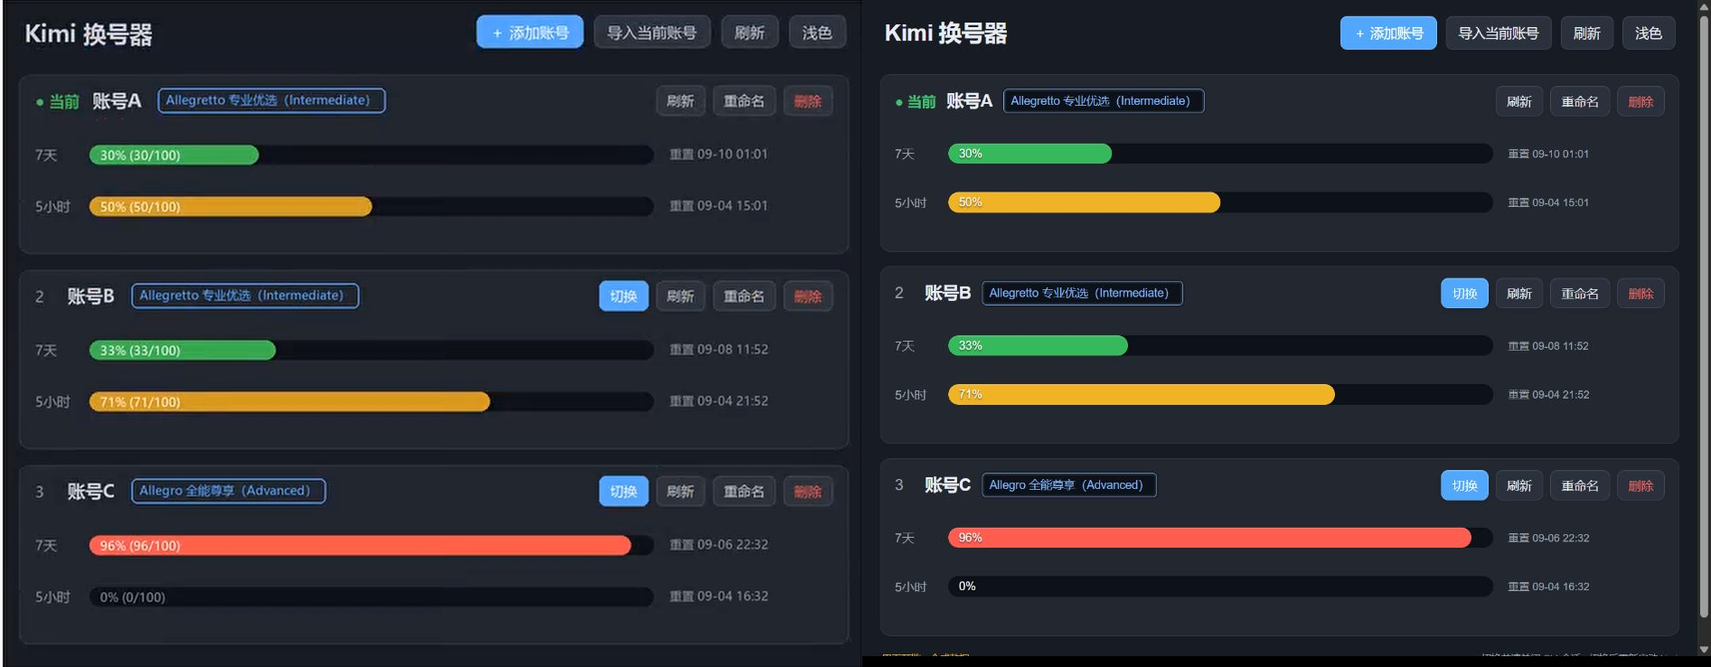
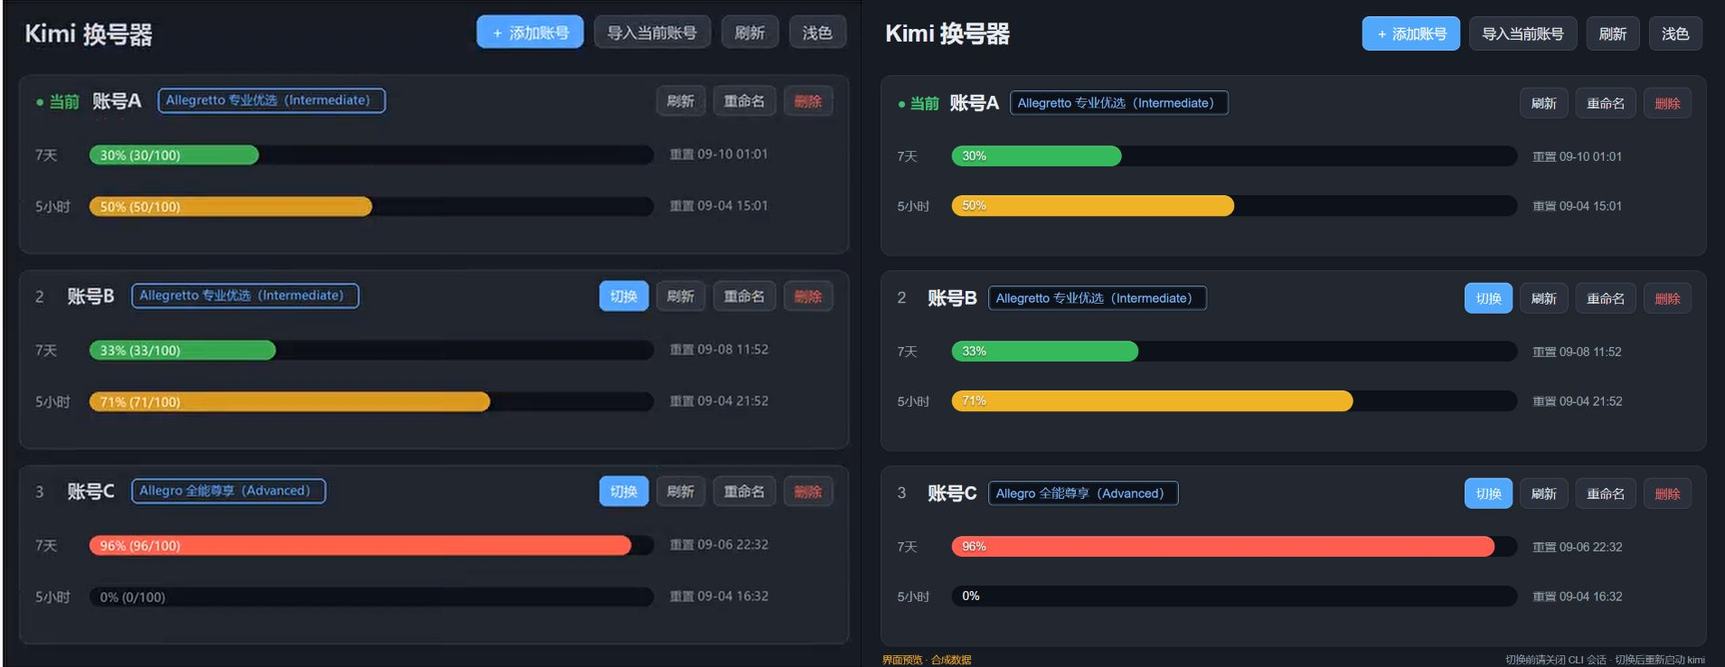
fix: preserve external CLI changes during recovery and report refresh failures

diff --git a/src/styles.css b/src/styles.css
@@ -1,7 +1,8 @@
-:root{font-family:Arial,"Microsoft YaHei UI","Microsoft YaHei",sans-serif;color:#e9edf3;background:#171b23;font-synthesis:none;font-weight:400;color-scheme:dark;--bg:#171b23;--card:#222730;--border:#333b47;--text:#e9edf3;--muted:#9ba3af;--button:#2b313c;--button-border:#414957;--track:#0d1119;--blue:#51a7fc;--green:#36b95c;--yellow:#f0b326;--red:#ff5d50;--dialog:#222832}
+:root{font-family:Arial,"Microsoft YaHei UI","Microsoft YaHei",sans-serif;color:#e9edf3;background:var(--bg);font-synthesis:none;font-weight:400;color-scheme:dark;--bg:#171b23;--card:#222730;--border:#333b47;--text:#e9edf3;--muted:#9ba3af;--button:#2b313c;--button-border:#414957;--track:#0d1119;--blue:#51a7fc;--green:#36b95c;--yellow:#f0b326;--red:#ff5d50;--dialog:#222832}
 :root[data-theme=light]{color-scheme:light;--bg:#f1f3f7;--card:#fff;--border:#d9dfe8;--text:#242c3a;--muted:#667184;--button:#eef1f6;--button-border:#d2d9e4;--track:#e6ebf2;--blue:#2588e9;--green:#29a650;--yellow:#d99a0d;--red:#ef584d;--dialog:#fff}
-*{box-sizing:border-box}body{margin:0;background:var(--bg);color:var(--text);min-width:360px}button,input,select{font:inherit}button{cursor:pointer;border:1px solid var(--button-border);background:var(--button);color:var(--text);border-radius:8px;min-height:36px;padding:7px 13px;font-size:14px;font-weight:500;box-shadow:inset 0 1px 0 #ffffff09,0 2px 5px #00000010;transition:background .15s,border-color .15s}button:hover:not(:disabled){filter:brightness(1.12);border-color:#75839a}button:focus-visible,input:focus-visible,select:focus-visible,a:focus-visible{outline:2px solid var(--blue);outline-offset:3px}button:disabled{opacity:.48;cursor:wait}button.primary{background:var(--blue);color:white;border-color:#7bbcff;box-shadow:inset 0 1px 0 #ffffff2b,0 2px 7px #0002}button.danger{color:#ef6b65}button.danger:hover:not(:disabled){background:#713b3a}#app{padding:17px 20px 0;max-width:1400px;margin:auto}.toolbar{display:flex;align-items:center;justify-content:space-between;gap:20px;min-height:40px;margin:0 0 26px;padding:0 5px}.toolbar h1{font-size:26px;line-height:40px;margin:0;font-weight:700;letter-spacing:-.5px;white-space:nowrap}.toolbar-actions{display:flex;align-items:center;gap:10px}.toolbar-actions button{height:38px;font-size:15px;padding:7px 14px}.accounts{display:flex;flex-direction:column;gap:16px}.account-card{background:var(--card);border:1px solid var(--border);border-radius:12px;min-height:200px;padding:11px 16px 24px 18px;box-shadow:inset 0 1px 0 #ffffff03,0 3px 10px #00000010}.account-header{display:flex;align-items:center;justify-content:space-between;gap:12px;min-height:38px}.account-identity{display:flex;align-items:center;gap:12px;min-width:0;flex-wrap:wrap}.account-identity h2{font-size:20px;line-height:30px;margin:0;font-weight:600;max-width:240px;white-space:nowrap;overflow:hidden;text-overflow:ellipsis}.current-marker{font-size:16px;color:#43be72;font-weight:600;white-space:nowrap}.account-number{font-size:17px;color:var(--muted);width:22px}.plan-tag{display:inline-flex;border:1px solid #71a4de;border-radius:5px;box-shadow:inset 0 0 0 2px var(--card),0 0 0 2px #0c101855;padding:4px 8px;color:#83b8f3;background:var(--track);font-size:14px;line-height:18px;max-width:310px;white-space:nowrap;overflow:hidden;text-overflow:ellipsis}.account-actions{display:flex;gap:8px;flex-shrink:0}.account-actions button{padding:6px 12px;min-height:34px}.quota-list{display:flex;flex-direction:column;gap:31px;margin-top:28px}.quota-row{display:grid;grid-template-columns:48px minmax(120px,1fr) 181px;align-items:center;gap:12px;min-height:24px}.quota-label{font-size:14px;color:var(--muted)}.quota-track{position:relative;height:23px;background:var(--track);border-radius:20px;overflow:hidden;box-shadow:inset 0 1px 3px #0003}.quota-fill{height:100%;border-radius:20px;box-shadow:inset 0 1px 1px #ffffff35,0 0 4px #0004;min-width:0}.quota-fill.weekly{background:var(--green)}.quota-fill.hourly{background:var(--yellow)}.quota-fill.critical{background:var(--red)}.quota-value{position:absolute;inset:0;display:flex;align-items:center;padding-left:12px;font-size:13px;color:#f7fafc;text-shadow:0 1px 2px #0009}.quota-value.unavailable{color:var(--muted);text-shadow:none}.quota-reset{color:var(--muted);font-size:13px;white-space:nowrap;padding-left:5px}.account-error{font-size:12px;line-height:1.5;color:#ed9b92;margin:14px 0 -7px}.notice{border:1px solid var(--border);background:var(--card);border-radius:8px;padding:11px 14px;margin:0 0 16px;color:var(--muted);font-size:13px;line-height:1.6}.notice.error{border-color:#a95d53;color:#ef9b91}.notice.success{border-color:#347857;color:#64ca8b}.empty-state{text-align:center;background:var(--card);border:1px dashed var(--border);border-radius:12px;padding:88px 24px}.empty-state h2{font-size:22px;margin:0 0 14px}.empty-state p{font-size:14px;color:var(--muted);line-height:1.8;margin:0 0 24px}.empty-actions{display:flex;justify-content:center;gap:12px}.app-footer{font-size:11px;color:var(--muted);display:flex;justify-content:space-between;gap:12px;margin:8px 2px 0;line-height:14px;flex-wrap:wrap}.app-dialog{width:440px;max-width:calc(100% - 36px);border:1px solid var(--border);border-radius:14px;background:var(--dialog);color:var(--text);padding:26px;box-shadow:0 24px 100px #0008}.app-dialog::backdrop{background:#080d16b8}.app-dialog h2{font-size:21px;margin:0 0 12px}.app-dialog p{font-size:13px;color:var(--muted);line-height:1.8;margin:0 0 22px}.app-dialog label{display:block;font-size:13px;margin:16px 0}.app-dialog input,.app-dialog select{display:block;margin-top:9px;width:100%;border:1px solid var(--button-border);border-radius:7px;padding:11px 12px;background:var(--track);color:var(--text)}.dialog-actions{display:flex;justify-content:flex-end;gap:10px;margin-top:25px}.login-panel{background:var(--card);border:1px solid var(--blue);border-radius:10px;padding:20px;margin-bottom:16px;line-height:1.7}.login-panel h2{font-size:17px;margin:0 0 9px}.login-panel p{font-size:13px;color:var(--muted);margin:0 0 13px}.login-url{display:block;overflow-wrap:anywhere;color:#77b8fb;font-size:13px;user-select:text;margin:10px 0 16px}.preview-badge{color:var(--yellow)}
+*{box-sizing:border-box}body{margin:0;background:var(--bg);color:var(--text);min-width:360px;min-height:100vh}button,input,select{font:inherit}button{cursor:pointer;border:1px solid var(--button-border);background:var(--button);color:var(--text);border-radius:8px;min-height:36px;padding:7px 13px;font-size:14px;font-weight:500;box-shadow:inset 0 1px 0 #ffffff09,0 2px 5px #00000010;transition:background .15s,border-color .15s}button:hover:not(:disabled){filter:brightness(1.12);border-color:#75839a}button:focus-visible,input:focus-visible,select:focus-visible,a:focus-visible{outline:2px solid var(--blue);outline-offset:3px}button:disabled{opacity:.48;cursor:wait}button.primary{background:var(--blue);color:white;border-color:#7bbcff;box-shadow:inset 0 1px 0 #ffffff2b,0 2px 7px #0002}button.danger{color:#ef6b65}button.danger:hover:not(:disabled){background:#713b3a}#app{padding:17px 20px 0;max-width:1400px;margin:auto}.toolbar{display:flex;align-items:center;justify-content:space-between;gap:20px;min-height:40px;margin:0 0 26px;padding:0 5px}.toolbar h1{font-size:26px;line-height:40px;margin:0;font-weight:700;letter-spacing:-.5px;white-space:nowrap}.toolbar-actions{display:flex;align-items:center;gap:10px}.toolbar-actions button{height:38px;font-size:15px;padding:7px 14px}.accounts{display:flex;flex-direction:column;gap:16px}.account-card{background:var(--card);border:1px solid var(--border);border-radius:12px;min-height:200px;padding:11px 16px 24px 18px;box-shadow:inset 0 1px 0 #ffffff03,0 3px 10px #00000010}.account-header{display:flex;align-items:center;justify-content:space-between;gap:12px;min-height:38px}.account-identity{display:flex;align-items:center;gap:12px;min-width:0;flex-wrap:wrap}.account-identity h2{font-size:20px;line-height:30px;margin:0;font-weight:600;max-width:240px;white-space:nowrap;overflow:hidden;text-overflow:ellipsis}.current-marker{font-size:16px;color:#43be72;font-weight:600;white-space:nowrap}.account-number{font-size:17px;color:var(--muted);width:22px}.plan-tag{display:inline-flex;border:1px solid #71a4de;border-radius:5px;box-shadow:inset 0 0 0 2px var(--card),0 0 0 2px #0c101855;padding:4px 8px;color:#83b8f3;background:var(--track);font-size:14px;line-height:18px;max-width:310px;white-space:nowrap;overflow:hidden;text-overflow:ellipsis}.account-actions{display:flex;gap:8px;flex-shrink:0}.account-actions button{padding:6px 12px;min-height:34px}.quota-list{display:flex;flex-direction:column;gap:31px;margin-top:28px}.quota-row{display:grid;grid-template-columns:48px minmax(120px,1fr) 181px;align-items:center;gap:12px;min-height:24px}.quota-label{font-size:14px;color:var(--muted)}.quota-track{position:relative;height:23px;background:var(--track);border-radius:20px;overflow:hidden;box-shadow:inset 0 1px 3px #0003}.quota-fill{height:100%;border-radius:20px;box-shadow:inset 0 1px 1px #ffffff35,0 0 4px #0004;min-width:0}.quota-fill.weekly{background:var(--green)}.quota-fill.hourly{background:var(--yellow)}.quota-fill.critical{background:var(--red)}.quota-value{position:absolute;inset:0;display:flex;align-items:center;padding-left:12px;font-size:13px;color:#f7fafc;text-shadow:0 1px 2px #0009}.quota-value.unavailable{color:var(--muted);text-shadow:none}.quota-reset{color:var(--muted);font-size:13px;white-space:nowrap;padding-left:5px}.account-error{font-size:12px;line-height:1.5;color:#ed9b92;margin:14px 0 -7px}.notice{border:1px solid var(--border);background:var(--card);border-radius:8px;padding:11px 14px;margin:0 0 16px;color:var(--muted);font-size:13px;line-height:1.6}.notice.error{border-color:#a95d53;color:#ef9b91}.notice.success{border-color:#347857;color:#64ca8b}.empty-state{text-align:center;background:var(--card);border:1px dashed var(--border);border-radius:12px;padding:88px 24px}.empty-state h2{font-size:22px;margin:0 0 14px}.empty-state p{font-size:14px;color:var(--muted);line-height:1.8;margin:0 0 24px}.empty-actions{display:flex;justify-content:center;gap:12px}.app-footer{font-size:11px;color:var(--muted);display:flex;justify-content:space-between;gap:12px;margin:8px 2px 0;line-height:14px;flex-wrap:wrap}.app-dialog{width:440px;max-width:calc(100% - 36px);border:1px solid var(--border);border-radius:14px;background:var(--dialog);color:var(--text);padding:26px;box-shadow:0 24px 100px #0008}.app-dialog::backdrop{background:#080d16b8}.app-dialog h2{font-size:21px;margin:0 0 12px}.app-dialog p{font-size:13px;color:var(--muted);line-height:1.8;margin:0 0 22px}.app-dialog label{display:block;font-size:13px;margin:16px 0}.app-dialog input,.app-dialog select{display:block;margin-top:9px;width:100%;border:1px solid var(--button-border);border-radius:7px;padding:11px 12px;background:var(--track);color:var(--text)}.dialog-actions{display:flex;justify-content:flex-end;gap:10px;margin-top:25px}.login-panel{background:var(--card);border:1px solid var(--blue);border-radius:10px;padding:20px;margin-bottom:16px;line-height:1.7}.login-panel h2{font-size:17px;margin:0 0 9px}.login-panel p{font-size:13px;color:var(--muted);margin:0 0 13px}.login-url{display:block;overflow-wrap:anywhere;color:#77b8fb;font-size:13px;user-select:text;margin:10px 0 16px}.preview-badge{color:var(--yellow)}
 @media(max-width:850px){.toolbar{align-items:flex-start;flex-wrap:wrap;gap:12px;margin-bottom:20px}.account-header{flex-wrap:wrap;gap:12px}.account-actions{margin-left:auto}.account-card{padding-bottom:22px}.quota-list{margin-top:24px;gap:24px}.quota-row{grid-template-columns:42px minmax(90px,1fr) 142px;gap:10px}.plan-tag{max-width:270px}}@media(max-width:560px){#app{padding:14px 12px}.toolbar{padding:0}.toolbar h1{font-size:24px}.toolbar-actions{width:100%;gap:7px;flex-wrap:wrap}.toolbar-actions button{font-size:13px;padding:7px 10px}.account-card{padding:13px 12px 20px}.account-identity{gap:9px}.account-identity h2{font-size:18px}.plan-tag{font-size:11px;padding:2px 6px}.account-actions{width:100%;margin:0;justify-content:flex-end}.account-actions button{font-size:12px;padding:5px 10px}.quota-row{grid-template-columns:40px 1fr;gap:8px}.quota-reset{grid-column:2;padding-left:0;font-size:11px}.quota-list{gap:17px}.quota-track{height:23px}.app-footer{font-size:10px}}
 @media(prefers-reduced-motion:reduce){*{transition:none!important}}
 
 :root[data-theme=light] .plan-tag{color:#326ba7;border-color:#6c93bf;box-shadow:none}:root[data-theme=light] .quota-value{color:#172a35;text-shadow:none}.login-url{width:100%;background:var(--track);border:1px solid var(--border);border-radius:6px;padding:10px}
+:root[data-theme=light]{--blue:#1673c7}:root[data-theme=light] .current-marker{color:#16883d}:root[data-theme=light] .notice.error,:root[data-theme=light] .account-error{color:#a83229}:root[data-theme=light] .notice.success{color:#176d38}:root[data-theme=light] button.danger{color:#b3332d}:root[data-theme=light] .preview-badge{color:#8a6200}

diff --git a/src-tauri/tests/switch.rs b/src-tauri/tests/switch.rs
@@ -164,3 +164,80 @@ fn refresh_recovery_does_not_overwrite_external_login() {
         "external-token"
     );
 }
+#[test]
+fn refresh_recovery_preserves_newer_external_token_for_same_account() {
+    use kimi_switcher::refresh_recovery;
+    let (_dir, mut svc, a, _) = setup();
+    let old = svc.cli.read_active().unwrap().unwrap();
+    let rotated = cred("a", "journal-r1");
+    refresh_recovery::stage(&svc.repo, &svc.cli, &a, &old, &rotated).unwrap();
+    let external = cred("a", "external-r2");
+    std::fs::write(svc.cli.credential_path().unwrap(), external.bytes()).unwrap();
+    assert!(refresh_recovery::complete(&mut svc.repo, &svc.cli).is_err());
+    assert_eq!(
+        svc.cli.read_active().unwrap().unwrap().refresh(),
+        "external-r2"
+    );
+    assert!(svc.repo.root.join("refresh.dpapi").exists());
+}
+#[test]
+fn switch_recovery_preserves_external_changes_and_keeps_journal() {
+    use kimi_switcher::transaction::{FileChange, Transaction};
+    let (_dir, svc, _, _) = setup();
+    let path = svc.cli.credential_path().unwrap();
+    let old_config = std::fs::read(svc.cli.home.join("config.toml")).unwrap();
+    let _tx = Transaction::prepare(
+        &svc.repo.root,
+        &svc.cli.home,
+        vec![
+            FileChange {
+                path: path.clone(),
+                after: cred("b", "tx-b").bytes(),
+            },
+            FileChange {
+                path: svc.cli.home.join("config.toml"),
+                after: b"changed config".to_vec(),
+            },
+        ],
+    )
+    .unwrap();
+    std::fs::write(&path, cred("external", "external-r3").bytes()).unwrap();
+    assert!(Transaction::recover(&svc.repo.root, &svc.cli.home).is_err());
+    assert_eq!(
+        svc.cli.read_active().unwrap().unwrap().refresh(),
+        "external-r3"
+    );
+    assert_eq!(
+        std::fs::read(svc.cli.home.join("config.toml")).unwrap(),
+        old_config
+    );
+    assert!(svc.repo.root.join("pending.dpapi").exists());
+}
+#[test]
+fn switch_recovery_checks_all_files_before_restoring_any() {
+    use kimi_switcher::transaction::{FileChange, Transaction};
+    let (_dir, svc, _, _) = setup();
+    let path = svc.cli.credential_path().unwrap();
+    let config = svc.cli.home.join("config.toml");
+    let after = cred("b", "tx-b").bytes();
+    let _tx = Transaction::prepare(
+        &svc.repo.root,
+        &svc.cli.home,
+        vec![
+            FileChange {
+                path: path.clone(),
+                after: after.clone(),
+            },
+            FileChange {
+                path: config.clone(),
+                after: b"tx-config".to_vec(),
+            },
+        ],
+    )
+    .unwrap();
+    std::fs::write(&path, &after).unwrap();
+    std::fs::write(&config, b"external-config-edit").unwrap();
+    assert!(Transaction::recover(&svc.repo.root, &svc.cli.home).is_err());
+    assert_eq!(std::fs::read(&path).unwrap(), after);
+    assert_eq!(std::fs::read(config).unwrap(), b"external-config-edit");
+}

diff --git a/src-tauri/src/transaction.rs b/src-tauri/src/transaction.rs
@@ -149,6 +149,23 @@ impl Transaction {
                 "恢复记录与当前 CLI 目录不匹配，已停止写入",
             ));
         }
+        // Validate the entire file set before the first write. Identity alone
+        // does not distinguish an old token from a newer external refresh.
+        for entry in &journal.entries {
+            let current = read_optional(&entry.path)?;
+            if current != entry.before && current.as_deref() != Some(entry.after.as_slice()) {
+                return Err(AppError::new(
+                    "recovery_conflict",
+                    "CLI 文件已被外部更新，未覆盖现有凭据或配置。请保留恢复记录并查看恢复说明",
+                ));
+            }
+        }
+        let paths = journal
+            .entries
+            .iter()
+            .map(|e| e.path.clone())
+            .collect::<Vec<_>>();
+        let _guards = crate::switch::guard_files(&paths)?;
         Self {
             root: root.to_owned(),
             journal,

diff --git a/src-tauri/tests/adapter.rs b/src-tauri/tests/adapter.rs
@@ -56,3 +56,18 @@ fn rejects_unsupported_cli_version() {
     assert!(!supports_version("1.0.0"));
     assert!(!supports_version("9.0.0"));
 }
+#[test]
+fn fresh_cli_directory_has_no_active_account() {
+    use kimi_switcher::cli::CliAdapter;
+    let dir = tempfile::tempdir_in(env!("CARGO_MANIFEST_DIR")).unwrap();
+    let cli = CliAdapter::from_home(dir.path().to_owned(), "2.1.1").unwrap();
+    assert_eq!(
+        cli.region_and_key().unwrap(),
+        ("mainland-cn".into(), "kimi-code".into())
+    );
+    assert!(cli.read_active().unwrap().is_none());
+    for config in ["", "default_model='other'\n", "[tools]\nmy_tool=true\n"] {
+        std::fs::write(dir.path().join("config.toml"), config).unwrap();
+        assert!(cli.read_active().unwrap().is_none());
+    }
+}

diff --git a/src-tauri/src/refresh_recovery.rs b/src-tauri/src/refresh_recovery.rs
@@ -55,10 +55,10 @@ pub fn complete(repo: &mut Repository, cli: &CliAdapter) -> AppResult<()> {
     let current = cli
         .read_active()?
         .ok_or_else(|| AppError::new("refresh_changed", "CLI 已退出登录，已停止恢复令牌"))?;
-    if !current.same_account(&before) && !current.same_account(&after) {
+    if current.bytes() != before.bytes() && current.bytes() != after.bytes() {
         return Err(AppError::new(
             "refresh_changed",
-            "CLI 已登录其他账号，未覆盖其凭据。请保留恢复记录",
+            "CLI 凭据已被外部更新，未覆盖现有登录。请保留恢复记录并查看恢复说明",
         ));
     }
     // Refresh token rotation cannot be rolled back: recover forward to the new token.

diff --git a/src-tauri/src/usage.rs b/src-tauri/src/usage.rs
@@ -4,6 +4,21 @@ use crate::{
 };
 use serde_json::Value;
 use std::time::Duration;
+pub fn summarize_refresh(total: usize, failures: &[AppError]) -> AppResult<()> {
+    if let Some(first) = failures.first() {
+        Err(AppError::new(
+            "refresh_partial",
+            &format!(
+                "已刷新 {}/{} 个账号；{}",
+                total.saturating_sub(failures.len()),
+                total,
+                first.message
+            ),
+        ))
+    } else {
+        Ok(())
+    }
+}
 pub fn parse_usage(payload: &Value) -> AppResult<QuotaSnapshot> {
     if !payload["usages"].is_object() {
         return Err(AppError::new(

diff --git a/src-tauri/tests/usage.rs b/src-tauri/tests/usage.rs
@@ -76,3 +76,12 @@ fn refreshed_token_preserves_wire_fields() {
     );
     assert!(parse_refreshed(&c, &json!({"access_token":"bad"}), 1000).is_err());
 }
+#[test]
+fn bulk_refresh_cannot_report_success_when_some_requests_failed() {
+    use kimi_switcher::{model::AppError, usage::summarize_refresh};
+    let error = AppError::new("cli_running", "请关闭 CLI");
+    assert!(summarize_refresh(3, &[]).is_ok());
+    let result = summarize_refresh(3, &[error]);
+    assert!(result.is_err());
+    assert!(result.unwrap_err().message.contains("2/3"));
+}

diff --git a/src-tauri/src/commands.rs b/src-tauri/src/commands.rs
@@ -118,9 +118,14 @@ pub async fn refresh_all(state: State<'_, AppState>) -> AppResult<AppSnapshot> {
         .into_iter()
         .map(|a| a.id)
         .collect::<Vec<_>>();
+    let total = ids.len();
+    let mut failures = vec![];
     for id in ids {
-        let _ = svc.refresh_account(&id).await;
+        if let Err(error) = svc.refresh_account(&id).await {
+            failures.push(error);
+        }
     }
+    crate::usage::summarize_refresh(total, &failures)?;
     svc.snapshot()
 }
 #[tauri::command]

diff --git a/src-tauri/src/cli/mod.rs b/src-tauri/src/cli/mod.rs
@@ -154,7 +154,9 @@ impl CliAdapter {
     }
     pub fn region_and_key(&self) -> AppResult<(String, String)> {
         let doc = parse_config(&self.config()?)?;
-        let provider = &doc["providers"].get("managed:kimi-code");
+        let provider = doc
+            .get("providers")
+            .and_then(|p| p.get("managed:kimi-code"));
         let key = provider
             .and_then(|p| p.get("oauth"))
             .and_then(|v| v.get("key"))

diff --git a/docs/verification.md b/docs/verification.md
@@ -1,0 +1,39 @@
+# 验证记录
+
+日期：2026-10-15。环境：Windows x64，Kimi Code CLI 2.1.1，Node.js 24.11.1，Rust/Cargo 1.98.0。
+
+## 已执行
+
+- Rust 核心测试：37 个通过。覆盖凭据格式、稳定身份、路径与版本、DPAPI 往返及无明文、去重和名称校验、地区隔离、原子切换、锁冲突、配置保留、写入失败回滚、启动恢复、轮换令牌向前恢复、外部登录保护、官方授权 URL 校验、隔离登录、取消和超时清理、额度解析和重试策略。
+- 前端测试：5 个通过。覆盖缺失与 0% 的区分、跨日时区、卡片当前状态、缓存与错误、重复点击禁用、名字的安全文本渲染及切换操作。
+- TypeScript 类型检查与 Vite 生产构建通过。生产文件检查没有包含预览合成数据模块。
+- `cargo clippy --all-targets --features desktop -- -D warnings` 通过。
+- Tauri 桌面编译与 NSIS x64 安装包生成通过。安装包约 3 MiB；可执行文件约 12 MiB。
+- 使用合成 CLI 目录启动 Windows 可执行文件：InputIdle=True、HasExited=False、Responding=True。启动检查使用隐藏窗口，不替代桌面视觉检查。
+- 浏览器视觉及交互检查详见项目根目录 `design-qa.md`。
+
+## 未执行与适用范围
+
+- 未验证真实新账号的浏览器授权；此步骤需要用户在官方页面亲自完成。
+- 未对用户真实账号执行切换、删除或令牌刷新，也未向线上服务发送用户凭据。
+- 线上额度与 OAuth 请求根据本机官方 2.1.1 源码实现，自动测试使用合成数据；真实账号联网结果仍需使用应用验证。
+- 安装包已生成，但没有在用户系统运行安装向导；可执行文件已完成进程启动检查。
+- Windows CLI 官方没有跨进程 OAuth 锁；切换时必须关闭 CLI，不能承诺在用户同时启动 CLI 的情况下完全隔离。
+
+## 构建中处理的问题
+
+官方 NSIS 下载在 Tauri 内部超时，使用 PowerShell 下载同一官方发布文件，并按 Tauri 上游源码的 SHA1 校验工具归档及插件后填充本机工具缓存；没有关闭校验或使用第三方可执行文件。具体上游依据为 https://github.com/tauri-apps/tauri/blob/dev/crates/tauri-bundler/src/bundle/windows/nsis/mod.rs 。
+
+系统 TEMP 使用 8.3 用户目录别名时，重命名在 Rust/.NET 中均报系统错误 6。测试使用项目内的独立临时目录后通过；应用原子写失败时仍然中止，不降级为覆盖写。
+
+## 实现取舍
+
+- 在原仓库的独立子目录、`codex/kimi-switcher` 分支开发，未创建额外工作树；与其他项目共享父仓库，提交严格限定本项目。
+- Windows 下阻止检测到的 CLI 进程，并加文件独占与写入复核；同时新启动 CLI 仍可能需要重新登录。
+- 测试临时目录位于项目内，需要项目目录可写。
+- 轮换后的令牌先保存，再请求额度，增加一次磁盘操作以避免额度请求失败丢失新令牌。
+- 全部账号刷新采用并发数 1，换取活动凭据写入顺序明确；账号较多时刷新较慢。
+
+## 独立审阅
+
+已完成一次独立审阅，发现的三个 Important 问题和一个重新分级为 Important 的问题均已用回归测试复现并修复。最终 Rust 套件 37/37、前端套件 5/5 通过。详见 code-review.md；没有延期的代码审阅问题。

diff --git a/design-qa.md b/design-qa.md
@@ -1,0 +1,49 @@
+# 界面对照验收
+
+日期：2026-10-15。
+
+## 对照依据与状态
+
+参考为用户提供的 954×738 截图，实施截图为同尺寸浏览器视口、深色主题、三账号合成数据。浏览器截图约 1× 像素密度。并排图为 `docs/screenshots/comparison.png`，右侧为实施结果。
+
+合成数据仅用于显式开发预览，不代表用户的真实账号或额度。生产构建不包含预览模块。
+
+## 发现与修正
+
+1. P2：初次查看时底部元信息导致页面纵向滚动，缩窄进度条区域。调整底部间距后，954×738 下 scrollWidth=954、scrollHeight=738，无溢出，三卡片完整显示。
+2. P2：套餐文字偏小，重置时间偏小。套餐调整为 14px、重置时间 13px，并再次截图对照。
+3. P2：浅色空状态的页面下部出现深色背景。根节点与 body 使用一致的主题背景，并覆盖整个视口；复拍确认修正。
+4. P2：浅色模式套餐、错误及当前账号文字对比度不足。改用浅色专用深色语义文本，并复查空状态、错误卡片和进度条数值。
+
+## 五项视觉检查
+
+- 字体：Arial + Microsoft YaHei UI/YaHei 系统字体，标题 26px、账号 20px，正文中文没有截断。原图受 JPEG 压缩与系统字体渲染影响，存在小幅抗锯齿差别，属于 P3。
+- 间距：20px 页面边距、200px 账号卡片、16px 卡片间距；顶部、账号操作和两行额度布局与参考保持一致。窄窗口按钮换行，重置时间转到下一行。
+- 颜色：深色底、灰色卡片、蓝色主按钮/套餐描边、绿色周额度、黄色小时额度、红色高用量；浅色模式单独检查文字可读性。
+- 图像质量：参考主体是原生界面文字、按钮和进度条，没有需要生成的照片、插画或头像。窗口应用图标独立于参考界面，无拉伸的截图背景。
+- 内容：保持截图的主要按钮和中文名称。按通过的设计，只显示真实接口提供的百分比，不把比例伪装成请求次数；增加底部 CLI 使用提示及开发预览标识，这是明确的产品范围差异。
+
+## 交互检查
+
+浏览器显式预览中检查了主题切换、切换账号后的当前标记、重命名弹窗与保存、添加账号弹窗、授权等待、取消完成和按钮恢复。额外截图覆盖空状态、登录等待和 520×820 下的错误状态。控制台错误列表为空。
+
+浏览器只验证前端行为；官方 CLI 调用与凭据切换由 Rust 合成目录测试覆盖，真实浏览器授权不包含在此次自动验收中。
+
+## 证据
+
+- `docs/screenshots/dark-reference.png`
+- `docs/screenshots/comparison.png`
+- `docs/screenshots/light.png`
+- `docs/screenshots/empty.png`
+- `docs/screenshots/login-wait.png`
+- `docs/screenshots/narrow-error.png`
+
+## 验收清单
+
+- [x] 同一视口与相同账号状态并排比较
+- [x] 字体、间距、配色、素材与文案检查
+- [x] 修正发现的 P2 问题并复拍
+- [x] 深浅色、空状态、错误、登录与窄窗口检查
+- [x] 主要交互与控制台检查
+
+final result: passed

diff --git a/docs/code-review.md b/docs/code-review.md
@@ -1,0 +1,18 @@
+# 独立审阅与修复
+
+日期：2026-10-15。独立审阅范围：b8571ce → e2bc11e；涵盖 Rust、前端、设计、计划及实现取舍。审阅只使用合成数据，未访问真实凭据或线上账号接口。以下问题均在最终修复阶段以失败测试复现后修正，并运行完整测试套件；未以二次审阅代替回归测试。
+
+## 审阅发现
+
+1. Important：配置缺少 providers 表时首次启动崩溃。改为可选读取，缺少配置、空配置、只有其他配置时均返回默认地区与空登录状态。回归测试 `fresh_cli_directory_has_no_active_account` 已观察失败后通过。
+2. Important：刷新恢复只比较账号身份，可能用旧令牌覆盖同账号的新一代令牌。改为精确比较事务前后凭据；遇到第三种状态时保持文件和恢复记录不变，返回冲突。回归测试 `refresh_recovery_preserves_newer_external_token_for_same_account` 已观察失败后通过。
+3. Important：切换恢复未检查外部更新，可能覆盖用户后来的登录或配置。改为写入前检查整个文件集合，只允许事务原状态或目标状态；发现任何外部修改即停止，保留所有文件和记录。回归测试 `switch_recovery_preserves_external_changes_and_keeps_journal`、`switch_recovery_checks_all_files_before_restoring_any` 已观察失败后通过。
+4. 原分级 Minor，实施者按实际影响升为 Important：批量额度查询忽略错误，可能在完全失败时报告成功。现在汇总失败并返回成功数/总数及错误，前端进入错误提示路径。回归测试 `bulk_refresh_cannot_report_success_when_some_requests_failed` 已观察失败后通过。
+
+没有未处理的独立审阅发现；无延期的代码审阅 Minor。
+
+## 审阅未判定的范围与实施判断
+
+- 真实 OAuth 和联网额度：需要用户账号及浏览器交互，保留为明确的未验证项，不以合成测试冒充真实授权。
+- 安装向导执行及视觉一致性：视觉已由浏览器对照验收；可执行文件已启动验证，安装向导未在用户系统执行。
+- Windows 下用户同时新启动 CLI 的绝对隔离：官方 CLI 2.1.1 没有 Windows OAuth 锁，保留进程阻止、文件独占与明确限制；仍不承诺同时新启动时完全隔离。
